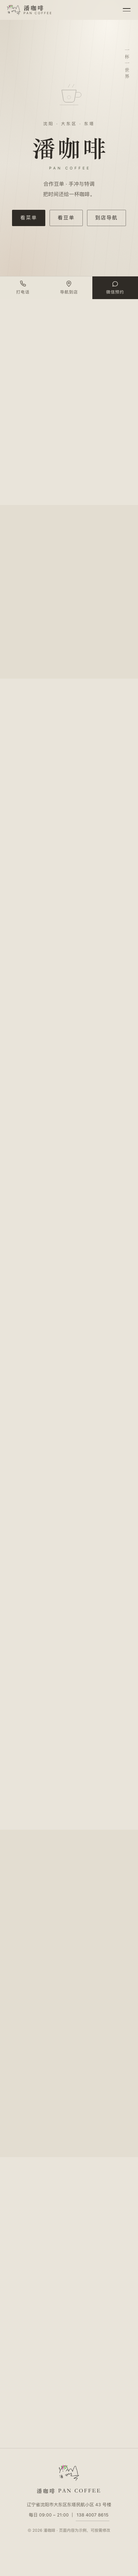
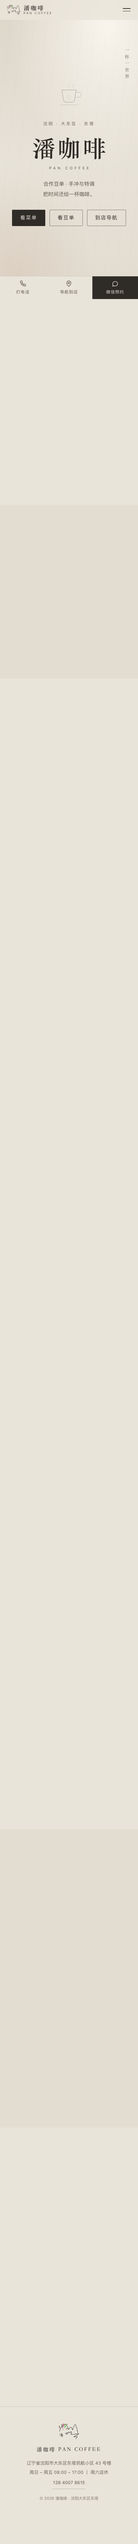
填入真实营业时间：周日–周五 08:00–17:00，周六店休
- 抽屉页脚 / 到店信息 / 页脚三处更新；店休用柿色标注（对比度 5.03:1）
- 结构化数据新增 openingHoursSpecification（周日–周五 08:00–17:00，周六不列即店休）
- 清除两处此前我编造、且与新时间冲突的内容：「院内可短暂停车」、「周末建议提前微信问空位」整行
- 清除两处面向顾客的内部提示：页脚「页面内容为示例，可按需修改」、相册区「实拍照片可替换此处的占位图」
- 页脚营业时间与电话号码拆成两行，320px 窄屏不再挤成一段

diff --git a/index.html b/index.html
@@ -23,6 +23,14 @@
   "name": "潘咖啡",
   "description": "合作豆单、手冲与咖啡特调，沈阳大东区东塔。",
   "telephone": "+86 138 4007 8615",
+  "openingHoursSpecification": [
+    {
+      "@type": "OpeningHoursSpecification",
+      "dayOfWeek": ["Sunday", "Monday", "Tuesday", "Wednesday", "Thursday", "Friday"],
+      "opens": "08:00",
+      "closes": "17:00"
+    }
+  ],
   "address": {
     "@type": "PostalAddress",
     "streetAddress": "东塔民航小区 43 号楼",
@@ -69,7 +77,7 @@
     </ul>
     <div class="drawer__foot">
       <p>沈阳市大东区东塔民航小区 43 号楼</p>
-      <p>每日 09:00 – 21:00</p>
+      <p>周日 – 周五 08:00 – 17:00 · 周六店休</p>
     </div>
   </nav>
   <button class="drawer__mask" type="button" id="drawerMask" aria-label="关闭菜单" tabindex="-1"></button>
@@ -505,7 +513,7 @@
       </div>
       <div class="info__row">
         <dt>营业</dt>
-        <dd>每日 09:00 – 21:00<em>（示例，请按实际修改）</em></dd>
+        <dd>周日 – 周五 08:00 – 17:00<em class="info__closed">周六店休</em></dd>
       </div>
       <div class="info__row">
         <dt>电话</dt>
@@ -513,11 +521,7 @@
       </div>
       <div class="info__row">
         <dt>交通</dt>
-        <dd>导航搜索「东塔民航小区」，43 号楼即到；院内可短暂停车。</dd>
-      </div>
-      <div class="info__row">
-        <dt>提示</dt>
-        <dd>店内座位不多，周末建议提前微信问一下空位。</dd>
+        <dd>导航搜索「东塔民航小区」，43 号楼即到。</dd>
       </div>
     </dl>
 
@@ -548,10 +552,10 @@
     <header class="section__head" data-reveal>
       <p class="section__num">陆</p>
       <h2 class="section__title">店内一角</h2>
-      <p class="section__note">实拍照片可替换此处的占位图</p>
     </header>
 
-    <!-- 占位图：把 <figure> 内的 div 换成 <img src="img/xxx.jpg" alt="..." loading="lazy" decoding="async"> 即可 -->
+    <!-- 这里是占位色块（顾客可见）。换实拍照片：把 <figure> 内的 <div class="shot__ph …"> 换成
+         <img src="img/xxx.jpg" alt="说明" loading="lazy" decoding="async"> 即可，样式不用动 -->
     <div class="gallery" data-reveal>
       <figure class="shot shot--tall">
         <div class="shot__ph shot__ph--1" aria-hidden="true"></div>
@@ -586,8 +590,9 @@
   <img class="footer__logo" src="img/logo.png" alt="潘咖啡" width="58" height="46" decoding="async">
   <p class="footer__brand">潘咖啡 PAN COFFEE</p>
   <p>辽宁省沈阳市大东区东塔民航小区 43 号楼</p>
-  <p>每日 09:00 – 21:00 ｜ <a href="tel:13840078615">138 4007 8615</a></p>
-  <p class="footer__copy">© <span id="year">2025</span> 潘咖啡 · 页面内容为示例，可按需修改</p>
+  <p>周日 – 周五 08:00 – 17:00 ｜ 周六店休</p>
+  <p><a href="tel:13840078615">138 4007 8615</a></p>
+  <p class="footer__copy">© <span id="year">2025</span> 潘咖啡 · 沈阳大东区东塔</p>
 </footer>
 
 <!-- ============ 底部操作栏 ============ -->

diff --git a/css/style.css b/css/style.css
@@ -491,6 +491,8 @@ button {
   border-bottom: 1px solid rgba(138, 74, 38, .4);
 }
 .info dd em { display: block; font-size: 11px; color: var(--muted); margin-top: 2px; }
+/* 店休这类需要注意的信息给一点强调色（柿色，5.4:1） */
+.info dd em.info__closed { color: var(--persimmon); font-size: 12px; letter-spacing: .04em; }
 
 .mapcard {
   margin-top: 24px;
